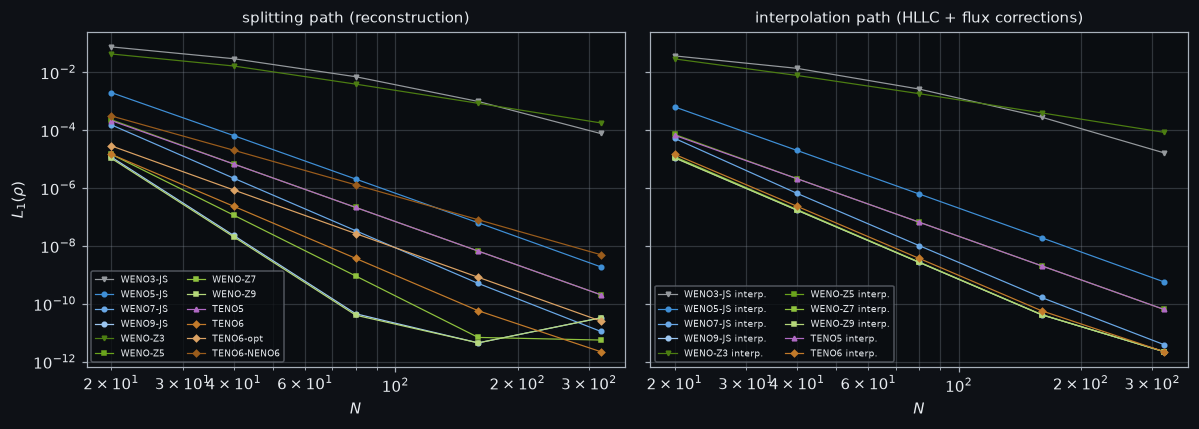
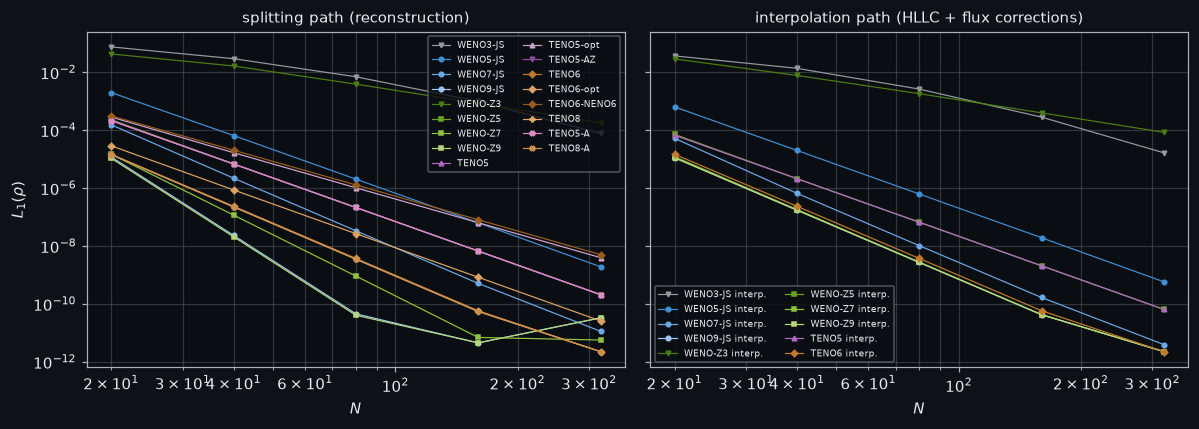
docs(verification): tables, figures and animations regenerated with the new schemes
scripts/run_vv.sh on the final tree (gfortran 16.2.0, report grids):
every verification program passed its bounds in report mode, and the
tables and figures of every case page now carry TENO5-opt, TENO5-AZ,
TENO5-A, TENO8 and TENO8-A beside the schemes of v0.1.0, plus the new
H1 sensor figure and the H3 hybrid table.

Gate: run_vv.sh exit 0; npm run docs:build green.

Refs #4

diff --git a/docs/verification/_tables/burgers.md b/docs/verification/_tables/burgers.md
@@ -9,6 +9,11 @@
 | WENO-Z7 | 5.703e-13 | 7.04 | 0.002717 | 6.237e-12 | 0.006112 |
 | WENO-Z9 | 2.283e-12 | 8.72 | 0.002813 | 3.048e-11 | 9.447e-04 |
 | TENO5 | 1.383e-10 | 5.05 | 0.003156 | 2.560e-11 | 2.964e-05 |
+| TENO5-opt | 2.584e-09 | 4.03 | 0.003172 | 1.002e-09 | 0 |
+| TENO5-AZ | 1.383e-10 | 5.05 | 0.002874 | 2.556e-11 | 0.03513 |
 | TENO6 | 6.349e-12 | 5.98 | 0.003108 | 8.281e-06 | 0 |
 | TENO6-opt | 2.632e-11 | 5.27 | 0.003094 | 8.765e-07 | 0 |
 | TENO6-NENO6 | 3.573e-09 | 3.99 | 0.003099 | 1.069e-06 | 8.873e-05 |
+| TENO8 | 5.695e-12 | 5.91 | 0.003037 | 1.663e-06 | 5.432e-06 |
+| TENO5-A | 1.383e-10 | 5.05 | 0.003151 | 2.561e-11 | 0 |
+| TENO8-A | 5.695e-12 | 5.91 | 0.00304 | 2.805e-06 | 3.340e-07 |

diff --git a/docs/verification/_tables/blast.md b/docs/verification/_tables/blast.md
@@ -9,9 +9,14 @@
 | WENO-Z7 | 0.07433 | **no** | 1826 |
 | WENO-Z9 | 0.07735 | **no** | 585 |
 | TENO5 | 0.08839 | **no** | 515 |
+| TENO5-opt | 0.07978 | **no** | 111 |
+| TENO5-AZ | 0.09126 | **no** | 824 |
 | TENO6 | 0.05839 | **no** | 197 |
 | TENO6-opt | 0.06444 | **no** | 251 |
 | TENO6-NENO6 | 0.07098 | **no** | 84 |
+| TENO8 | 0.05682 | **no** | 418 |
+| TENO5-A | 0.08653 | **no** | 1930 |
+| TENO8-A | 0.05566 | **no** | 760 |
 | WENO3-JS interp. | 0.1256 | **no** | 5494 |
 | WENO5-JS interp. | 0.07447 | **no** | 5933 |
 | WENO7-JS interp. | 0.06314 | **no** | 6186 |

diff --git a/docs/verification/_tables/123.md b/docs/verification/_tables/123.md
@@ -22,5 +22,10 @@
 | WENO-Z9 interp. | 0.0058 | 0.001152 | 0.54 | **no** | 90 |
 | TENO5 interp. | 0.005799 | 0.001127 | 0.53 | **no** | 104 |
 | TENO6 interp. | 0.005696 | 0.001099 | 0.57 | **no** | 186 |
+| TENO5-opt | 0.004824 | 0.001207 | 0.51 | yes | 82 |
+| TENO5-AZ | 0.005023 | 0.001188 | 0.49 | yes | 76 |
+| TENO8 | 0.005097 | 0.00126 | 0.48 | yes | 84 |
+| TENO5-A | 0.005622 | 0.001095 | 0.60 | yes | 92 |
+| TENO8-A | 0.005867 | 0.001221 | 0.51 | yes | 94 |
 
 $L_1$ with the positivity limiter on (it is inactive where the last column is 0).

diff --git a/docs/verification/_tables/sod.md b/docs/verification/_tables/sod.md
@@ -22,5 +22,10 @@
 | WENO-Z9 interp. | 0.002224 | 3.150e-04 | 0.97 | yes | 0 |
 | TENO5 interp. | 0.002271 | 3.337e-04 | 0.94 | yes | 0 |
 | TENO6 interp. | 0.002273 | 3.441e-04 | 0.92 | yes | 0 |
+| TENO5-opt | 0.002643 | 3.826e-04 | 0.93 | yes | 0 |
+| TENO5-AZ | 0.002718 | 3.972e-04 | 0.93 | yes | 0 |
+| TENO8 | 0.002244 | 3.093e-04 | 0.91 | yes | 0 |
+| TENO5-A | 0.002741 | 4.381e-04 | 0.87 | yes | 0 |
+| TENO8-A | 0.002253 | 3.706e-04 | 0.83 | yes | 0 |
 
 $L_1$ with the positivity limiter on (it is inactive where the last column is 0).

diff --git a/docs/verification/_tables/lax.md b/docs/verification/_tables/lax.md
@@ -22,5 +22,10 @@
 | WENO-Z9 interp. | 0.007544 | 0.001017 | 0.85 | yes | 0 |
 | TENO5 interp. | 0.007874 | 0.001127 | 0.84 | yes | 0 |
 | TENO6 interp. | 0.007281 | 0.00104 | 0.77 | yes | 0 |
+| TENO5-opt | 0.008997 | 0.001289 | 0.86 | yes | 0 |
+| TENO5-AZ | 0.009022 | 0.001363 | 0.86 | yes | 0 |
+| TENO8 | 0.007308 | 0.001024 | 0.71 | yes | 0 |
+| TENO5-A | 0.009123 | 0.001609 | 0.76 | yes | 0 |
+| TENO8-A | 0.006995 | 0.001298 | 0.73 | yes | 0 |
 
 $L_1$ with the positivity limiter on (it is inactive where the last column is 0).

diff --git a/docs/verification/_tables/shu-osher.md b/docs/verification/_tables/shu-osher.md
@@ -9,9 +9,14 @@
 | WENO-Z7 | 0.1421 | — | — |
 | WENO-Z9 | 0.1374 | — | — |
 | TENO5 | 0.1714 | — | — |
+| TENO5-opt | 0.1504 | — | — |
+| TENO5-AZ | 0.182 | — | — |
 | TENO6 | 0.1515 | — | — |
 | TENO6-opt | 0.1492 | — | — |
 | TENO6-NENO6 | 0.194 | — | — |
+| TENO8 | 0.1379 | — | — |
+| TENO5-A | 0.1695 | — | — |
+| TENO8-A | 0.1511 | — | — |
 | WENO3-JS interp. | 0.6685 | — | — |
 | WENO5-JS interp. | 0.2357 | — | — |
 | WENO7-JS interp. | 0.1699 | — | — |

diff --git a/docs/verification/_tables/advection.md b/docs/verification/_tables/advection.md
@@ -9,6 +9,11 @@
 | WENO-Z7 | 0.04794 | 2.928e-06 | 1.094e-06 |
 | WENO-Z9 | 0.04461 | 4.810e-04 | 7.790e-05 |
 | TENO5 | 0.06145 | 0.009438 | 1.139e-04 |
+| TENO5-opt | 0.06878 | 0.03794 | 1.481e-04 |
+| TENO5-AZ | 0.06092 | 0.008822 | 0.001029 |
 | TENO6 | 0.05079 | 5.424e-05 | 1.699e-04 |
 | TENO6-opt | 0.05139 | 5.617e-05 | 5.758e-06 |
 | TENO6-NENO6 | 0.05876 | — | 1.204e-05 |
+| TENO8 | 0.04796 | — | 4.614e-06 |
+| TENO5-A | 0.0652 | 0.02889 | 0.02935 |
+| TENO8-A | 0.05121 | 0.03376 | 0.01521 |

diff --git a/docs/verification/_tables/euler-order.md b/docs/verification/_tables/euler-order.md
@@ -9,9 +9,14 @@
 | WENO-Z7 | 5.642e-12 | 7.00 |
 | WENO-Z9 | 3.286e-11 | 9.00 |
 | TENO5 | 2.087e-10 | 5.00 |
+| TENO5-opt | 3.972e-09 | 4.00 |
+| TENO5-AZ | 2.087e-10 | 5.00 |
 | TENO6 | 2.246e-12 | 5.99 |
 | TENO6-opt | 2.579e-11 | 5.00 |
 | TENO6-NENO6 | 5.047e-09 | 4.00 |
+| TENO8 | 2.245e-12 | 6.00 |
+| TENO5-A | 2.087e-10 | 5.00 |
+| TENO8-A | 2.248e-12 | 6.00 |
 | WENO3-JS interp. | 1.655e-05 | 4.09 |
 | WENO5-JS interp. | 5.785e-10 | 5.06 |
 | WENO7-JS interp. | 3.933e-12 | 5.95 |

diff --git a/docs/verification/_tables/critical-points.md b/docs/verification/_tables/critical-points.md
@@ -14,6 +14,11 @@
 | WENO-Z9, $p = 1$ | 8.46 | 9.51 | 8.35 | 7.30 |
 | WENO-Z9, $p = 2$ | 8.97 | 9.05 | 5.03 | 8.95 |
 | TENO5 | 5.00 | 5.00 | 2.00 | 2.00 |
+| TENO5-opt | 4.00 | 4.00 | 2.00 | 2.00 |
+| TENO5-AZ | 5.00 | 5.00 | 5.00 | 5.00 |
 | TENO6 | 6.00 | 6.00 | 2.00 | 2.00 |
 | TENO6-opt | 4.98 | 5.02 | 2.00 | 2.00 |
 | TENO6-NENO6 | 4.00 | 4.00 | 2.00 | 2.00 |
+| TENO8 | 6.00 | 6.00 | 2.00 | 2.00 |
+| TENO5-A | 5.00 | 5.00 | 2.00 | 2.00 |
+| TENO8-A | 6.00 | 6.00 | 6.00 | 6.00 |

diff --git a/docs/verification/_tables/convergence-orders.md b/docs/verification/_tables/convergence-orders.md
@@ -14,6 +14,11 @@
 | WENO-Z9, $p = 1$ | 8.89 | — |
 | WENO-Z9, $p = 2$ | 8.89 | — |
 | TENO5 | 5.00 | 4.99 |
+| TENO5-opt | 4.00 | 4.01 |
+| TENO5-AZ | 5.00 | 4.99 |
 | TENO6 | 6.00 | 5.99 |
 | TENO6-opt | 5.16 | 5.06 |
 | TENO6-NENO6 | 4.00 | 3.98 |
+| TENO8 | 5.99 | — |
+| TENO5-A | 5.00 | 4.99 |
+| TENO8-A | 5.99 | — |

diff --git a/docs/verification/_tables/order-of-accuracy.md b/docs/verification/_tables/order-of-accuracy.md
@@ -32,5 +32,7 @@
 | TENO6-NENO6 | 4.00 | 4.00 | 4 |
 | TENO5 interp. | 5.02 | 4.98 | 5 |
 | TENO6 interp. | 6.00 | 6.00 | 6 |
+| TENO5-opt | 4.01 | 3.99 | 4 |
+| TENO5-AZ | 5.02 | 4.98 | 5 |
 
 Observed on the finest pair of $h$ above round-off; asserted $\ge$ design $- 0.5$.
